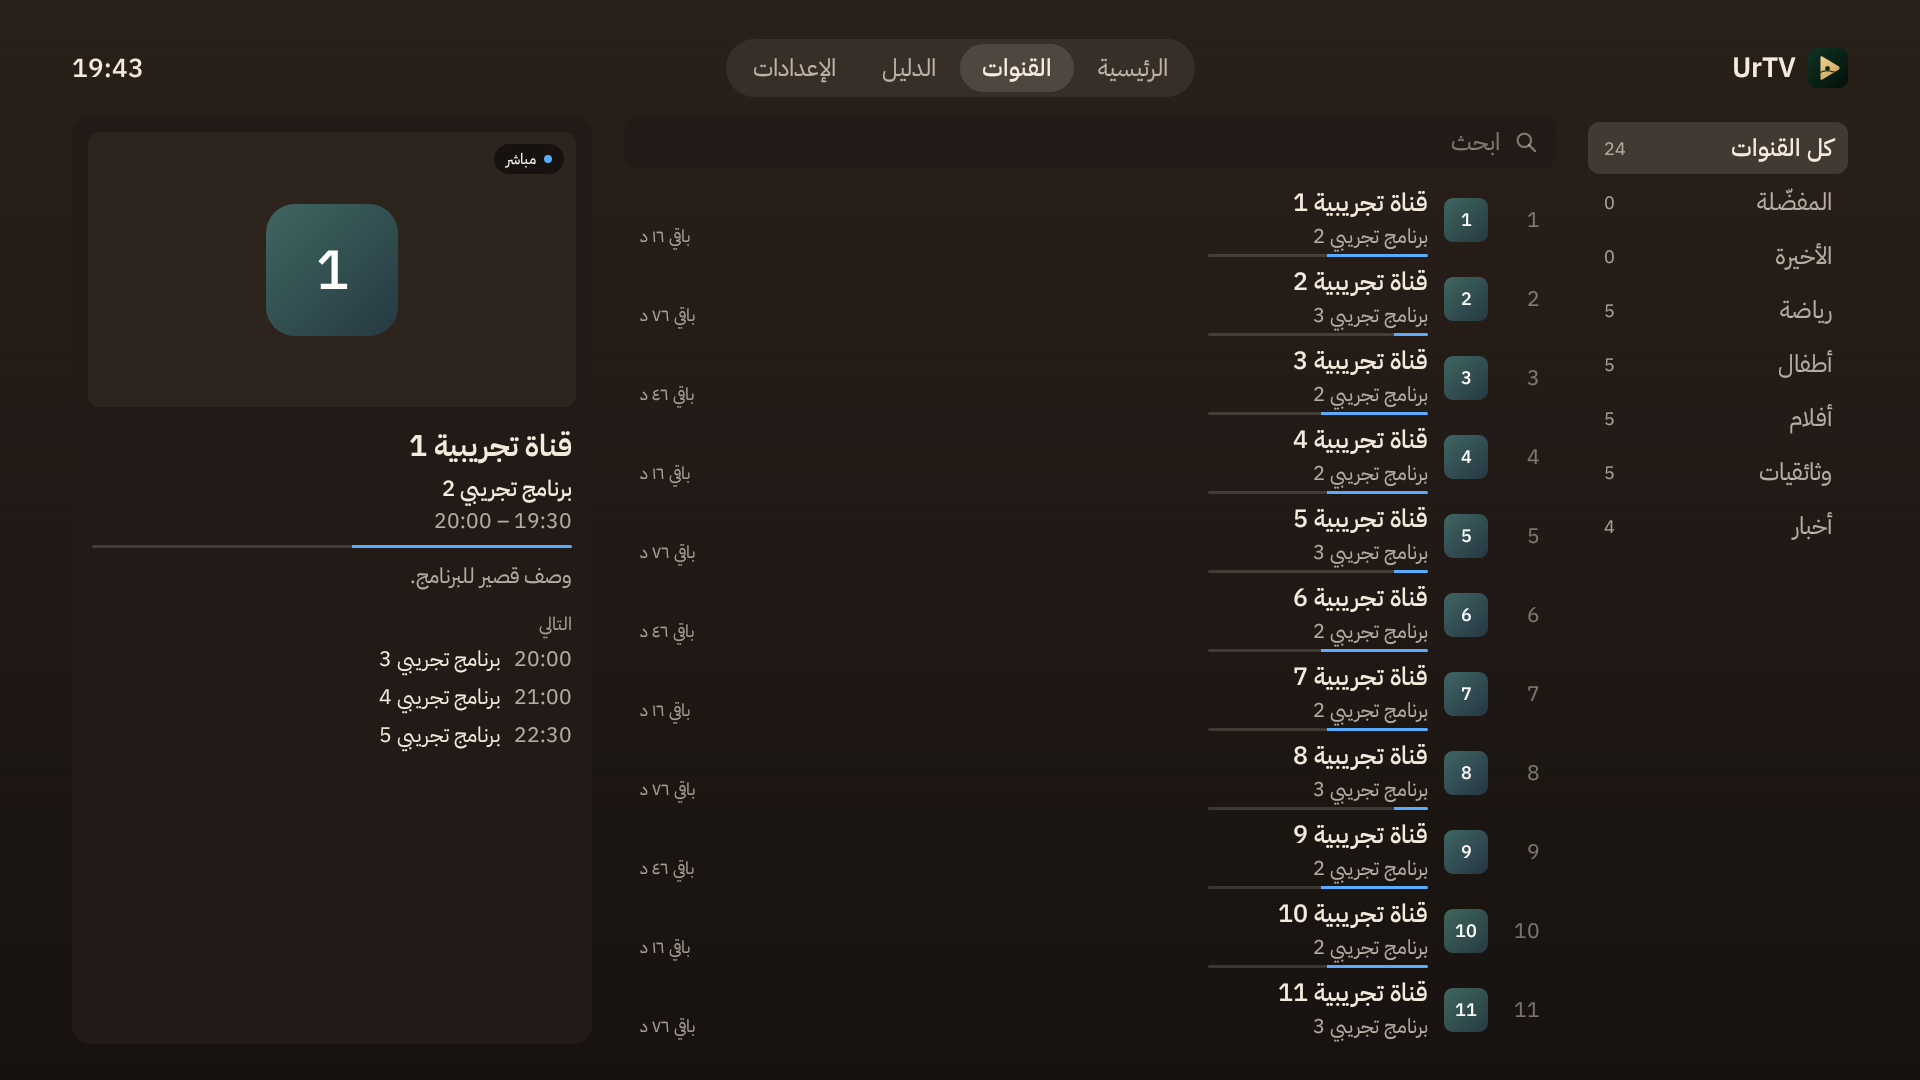
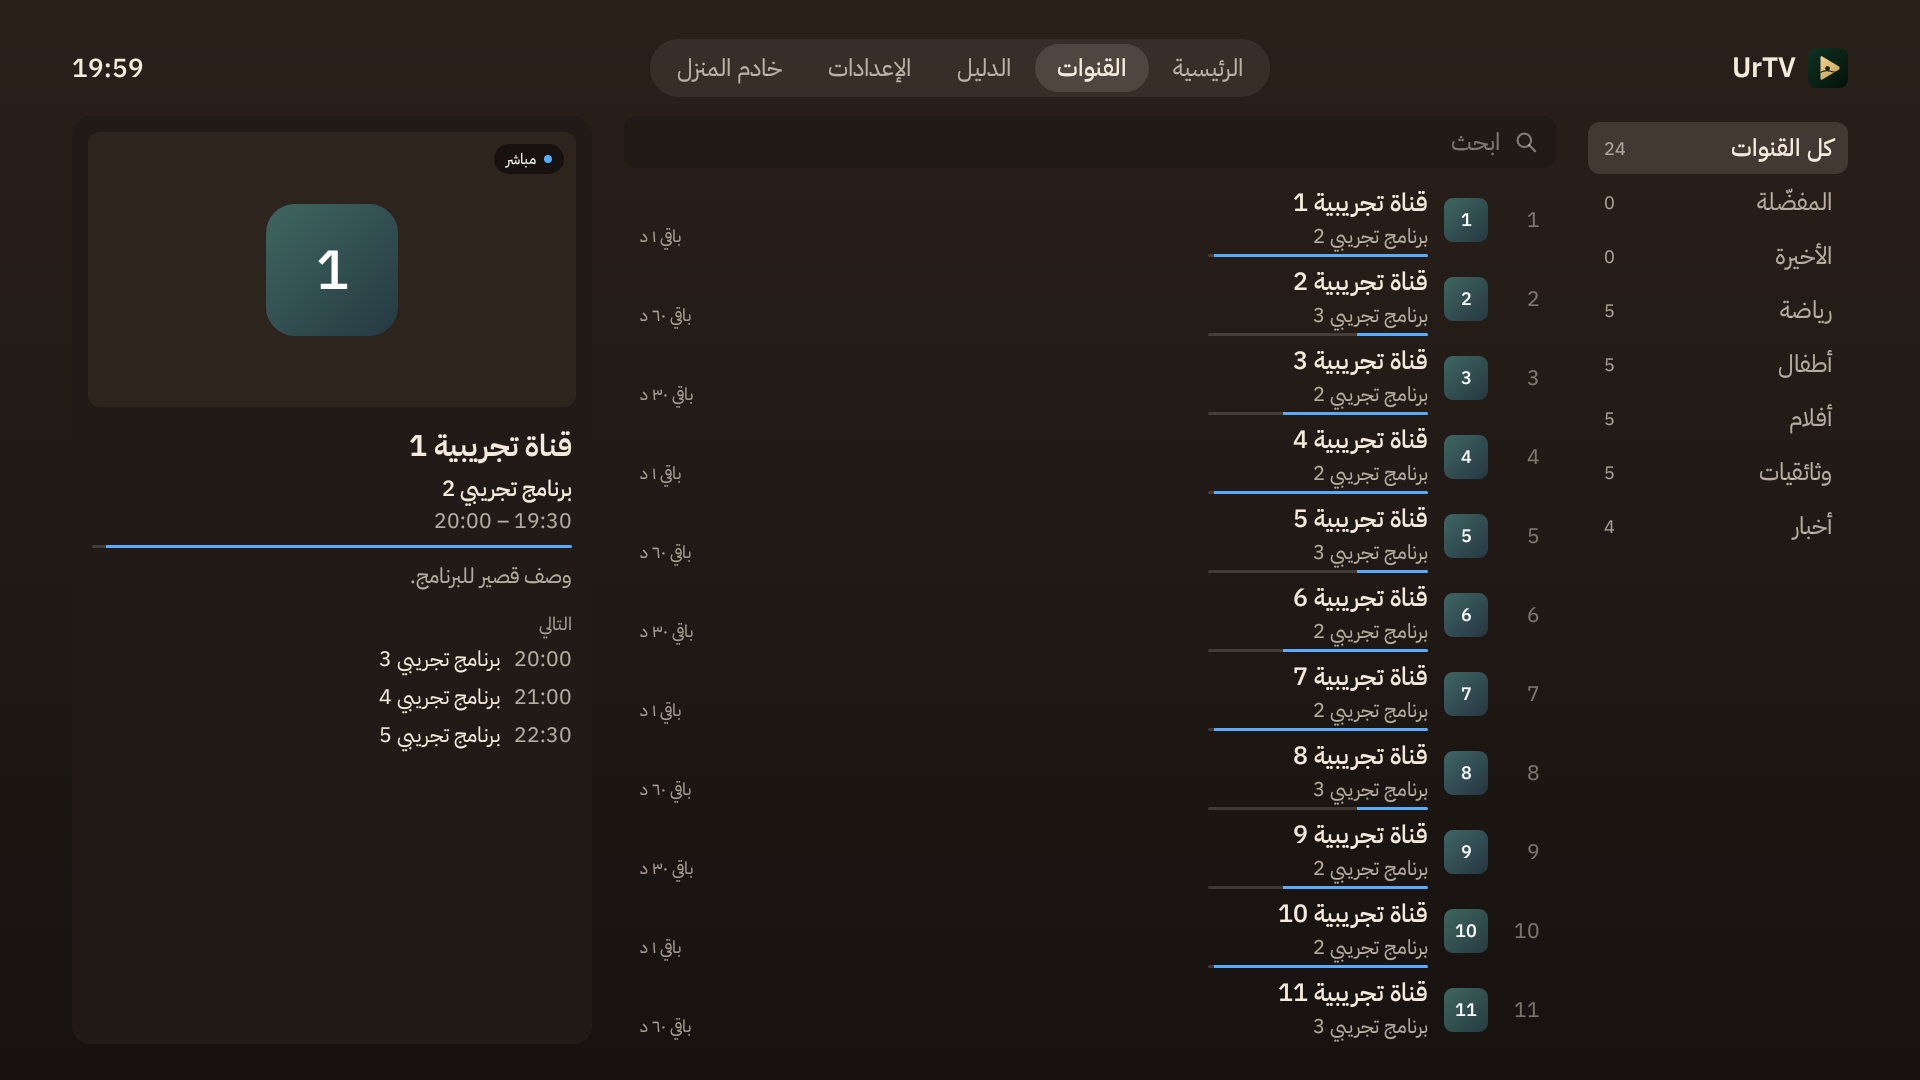
Never blank: skeleton rows and cards in theme tokens until the first answer; optional Thmanyah from the private fonts repo (CI secret FONTS_TOKEN, never committed) with Plex fallback; CI gates on the release APK only

diff --git a/app/src/main/kotlin/com/urtv/player/data/Catalog.kt b/app/src/main/kotlin/com/urtv/player/data/Catalog.kt
@@ -21,6 +21,8 @@ data class CatalogState(
     val loading: Boolean = false,
     val error: LoadError? = null,
     val epgLoading: Boolean = false,
+    /** True once the first answer is in (cache read or network try finished). Until then the UI shows skeleton rows, never an empty-state flash. */
+    val settled: Boolean = false,
 )
 
 /** Loads the active playlist (cache first, then network) and its XMLTV guide. */
@@ -35,13 +37,13 @@ class Catalog(ctx: Context, private val store: Store, private val scope: Corouti
     fun open(id: String?, force: Boolean = false) {
         job?.cancel()
         val def = store.playlists.value.firstOrNull { it.id == id }
-        if (def == null) { _state.value = CatalogState(); _epg.value = EpgIndex.EMPTY; return }
+        if (def == null) { _state.value = CatalogState(settled = true); _epg.value = EpgIndex.EMPTY; return }
         val sameList = _state.value.playlistId == id
         _state.value = CatalogState(playlistId = id, channels = if (sameList) _state.value.channels else emptyList(), loading = true)
         job = scope.launch {
             val cacheFile = chFile(def.id)
             val cached = withContext(Dispatchers.IO) { readCache(cacheFile) }
-            if (cached.isNotEmpty()) _state.value = _state.value.copy(channels = cached, loading = false)
+            if (cached.isNotEmpty()) _state.value = _state.value.copy(channels = cached, loading = false, settled = true)
             val maxAgeMs = store.refreshHours.value * 3_600_000L
             val stale = !cacheFile.exists() || cached.isEmpty() || (maxAgeMs > 0 && System.currentTimeMillis() - cacheFile.lastModified() > maxAgeMs)
             var epgUrls = emptyList<String>()
@@ -50,13 +52,13 @@ class Catalog(ctx: Context, private val store: Store, private val scope: Corouti
                 val r = withContext(Dispatchers.IO) { runCatching { fetch(def) } }
                 r.onSuccess { (list, urls) ->
                     epgUrls = urls
-                    if (list.isEmpty()) _state.value = _state.value.copy(loading = false, error = if (cached.isEmpty()) LoadError.Empty else null)
-                    else { withContext(Dispatchers.IO) { writeCache(cacheFile, list) }; _state.value = _state.value.copy(channels = list, loading = false, error = null) }
+                    if (list.isEmpty()) _state.value = _state.value.copy(loading = false, settled = true, error = if (cached.isEmpty()) LoadError.Empty else null)
+                    else { withContext(Dispatchers.IO) { writeCache(cacheFile, list) }; _state.value = _state.value.copy(channels = list, loading = false, settled = true, error = null) }
                 }.onFailure {
                     if (it is kotlinx.coroutines.CancellationException) throw it
-                    _state.value = _state.value.copy(loading = false, error = if (cached.isEmpty()) LoadError.Network else null)
+                    _state.value = _state.value.copy(loading = false, settled = true, error = if (cached.isEmpty()) LoadError.Network else null)
                 }
-            } else _state.value = _state.value.copy(loading = false)
+            } else _state.value = _state.value.copy(loading = false, settled = true)
             loadEpg(def, force || stale, epgUrls)
         }
     }

diff --git a/app/src/main/kotlin/com/urtv/player/ui/Home.kt b/app/src/main/kotlin/com/urtv/player/ui/Home.kt
@@ -208,6 +208,12 @@ private fun HomeRows(
             else -> true
         }
     }
+    if (shown.isEmpty() && (!cat.settled || cat.loading)) {
+        Column(Modifier.fillMaxSize().padding(top = 12.dp), verticalArrangement = Arrangement.spacedBy(28.dp)) {
+            repeat(3) { Column(verticalArrangement = Arrangement.spacedBy(14.dp)) { SkeletonBlock(Modifier.size(220.dp, 26.dp), 6); SkeletonCards(5) } }
+        }
+        return
+    }
     if (shown.isEmpty()) {
         Column(Modifier.fillMaxSize(), horizontalAlignment = Alignment.CenterHorizontally, verticalArrangement = Arrangement.Center) {
             Text(stringResource(R.string.home_empty), style = T.title)
@@ -368,8 +374,9 @@ private fun LiveTab(app: UrtvApp, cat: CatalogState, nowMs: Long, onPlay: (List<
                             TvButton(stringResource(R.string.unlock), { pinReq = PinRequest.Verify { app.unlocked = app.unlocked + gKey } }, primary = true, focusRequester = ufr)
                         }
                     }
+                    list.isEmpty() && (!cat.settled || (cat.loading && cat.channels.isEmpty())) -> SkeletonRows(10)
                     list.isEmpty() -> Column(Modifier.align(Alignment.Center), horizontalAlignment = Alignment.CenterHorizontally) {
-                        if (cat.loading && cat.channels.isEmpty()) { Spinner(); Spacer(Modifier.height(14.dp)); Text(stringResource(R.string.loading), style = T.body.copy(color = C.muted)) }
+                        if (false) { }
                         else if (cat.error != null && cat.channels.isEmpty()) {
                             Text(stringResource(when (cat.error) { LoadError.Network -> R.string.err_network; LoadError.Format -> R.string.err_format; else -> R.string.err_empty }), style = T.title)
                             Spacer(Modifier.height(20.dp)); TvButton(stringResource(R.string.retry), { app.catalog.refreshActive() }, primary = true)
@@ -428,7 +435,7 @@ private fun PreviewPane(app: UrtvApp, ch: Channel?, epg: com.urtv.player.data.Ep
     }
     DisposableEffect(Unit) { onDispose { if (ctrl.isPreview) ctrl.stop() } }   // never kill a full-screen channel that just started
     Column(modifier.clip(Rd(18)).background(C.surface).padding(16.dp)) {
-        Box(Modifier.fillMaxWidth().aspectRatio(16f / 9f).clip(Rd(12)).background(if (enabled && shownUrl == ch?.url) Color.Black else C.surfaceHi)) {
+        Box(Modifier.fillMaxWidth().aspectRatio(16f / 9f).clip(Rd(12)).background(if (enabled && ch != null && shownUrl == ch.url) Color.Black else C.surfaceHi)) {
             if (enabled) AndroidView({ android.view.SurfaceView(it).also(ctrl::attach) }, Modifier.fillMaxSize(), onRelease = { ctrl.detach(it) })
             if (ch != null) Box(Modifier.align(Alignment.TopStart).padding(12.dp).clip(RoundedCornerShape(50)).background(Color(0x80000000)).padding(horizontal = 12.dp, vertical = 4.dp)) {
                 Row(verticalAlignment = Alignment.CenterVertically) { Box(Modifier.size(8.dp).clip(RoundedCornerShape(50)).background(C.accent)); Spacer(Modifier.width(8.dp)); Text(stringResource(R.string.live), style = T.tiny.copy(color = Color.White, fontSize = 15.sp)) }

diff --git a/app/src/main/kotlin/com/urtv/player/ui/Widgets.kt b/app/src/main/kotlin/com/urtv/player/ui/Widgets.kt
@@ -186,3 +186,35 @@ fun FocusField(
         }
     }
 }
+
+
+/** Quiet placeholder block with a slow pulse; uses theme tokens so it fits every theme. */
+@Composable
+fun SkeletonBlock(modifier: Modifier, radius: Int = 10) {
+    val t = rememberInfiniteTransition(label = "sk")
+    val a by t.animateFloat(0.55f, 1f, infiniteRepeatable(tween(1100, easing = androidx.compose.animation.core.FastOutSlowInEasing), RepeatMode.Reverse), label = "a")
+    Box(modifier.graphicsLayer { alpha = a }.clip(Rd(radius)).background(C.glass))
+}
+
+/** Rows shaped like the real channel rows (number, logo, two text lines): shown instead of a spinner or an empty state while loading. */
+@Composable
+fun SkeletonRows(count: Int = 10, rowHeight: Int = 76) {
+    androidx.compose.foundation.layout.Column(Modifier.fillMaxWidth()) {
+        repeat(count) {
+            Row(Modifier.fillMaxWidth().height(rowHeight.dp).padding(horizontal = 16.dp), verticalAlignment = Alignment.CenterVertically) {
+                SkeletonBlock(Modifier.size(width = 30.dp, height = 18.dp), 6); androidx.compose.foundation.layout.Spacer(Modifier.size(22.dp))
+                SkeletonBlock(Modifier.size(44.dp), 10); androidx.compose.foundation.layout.Spacer(Modifier.size(16.dp))
+                androidx.compose.foundation.layout.Column(verticalArrangement = androidx.compose.foundation.layout.Arrangement.spacedBy(10.dp)) {
+                    SkeletonBlock(Modifier.size(width = (240 + (it * 37) % 160).dp, height = 18.dp), 6)
+                    SkeletonBlock(Modifier.size(width = (160 + (it * 53) % 140).dp, height = 14.dp), 6)
+                }
+            }
+        }
+    }
+}
+
+/** Card-shaped placeholders for Home rows and poster grids. */
+@Composable
+fun SkeletonCards(count: Int = 5, width: Int = 300, height: Int = 88) {
+    Row(Modifier.padding(horizontal = 4.dp), horizontalArrangement = androidx.compose.foundation.layout.Arrangement.spacedBy(16.dp)) { repeat(count) { SkeletonBlock(Modifier.size(width.dp, height.dp), 14) } }
+}

diff --git a/app/src/test/kotlin/com/urtv/player/ShotsTest.kt b/app/src/test/kotlin/com/urtv/player/ShotsTest.kt
@@ -5,6 +5,10 @@ import android.graphics.Bitmap
 import androidx.activity.ComponentActivity
 import androidx.activity.compose.setContent
 import androidx.compose.runtime.Composable
+import androidx.compose.foundation.background
+import androidx.compose.foundation.layout.fillMaxSize
+import androidx.compose.foundation.layout.padding
+import androidx.compose.ui.unit.dp
 import androidx.compose.ui.test.captureToImage
 import androidx.compose.ui.test.junit4.createEmptyComposeRule
 import androidx.compose.ui.test.onRoot
@@ -122,6 +126,9 @@ class ShotsTest {
     @Test fun addPhone() { shot("08-add-from-phone-ar") { AddPlaylistScreen(app, Triple("http://192.0.2.10:49152/?c=482915", "482915", "192.0.2.10:49152")) {} } }
     @Test fun backup() { shot("12-backup-passphrase-ar") { com.urtv.player.ui.BackupScreen(app, false) {} } }
     @Test fun restore() { shot("13-restore-from-phone-ar") { com.urtv.player.ui.BackupScreen(app, true, Triple("http://192.0.2.10:49153/?c=730164", "730164", "192.0.2.10:49153")) {} } }
+    @Test fun loadingSkeleton() {
+        shot("14-loading-skeleton-ar") { androidx.compose.foundation.layout.Column(androidx.compose.ui.Modifier.fillMaxSize().background(com.urtv.player.ui.C.bgBrush).padding(horizontal = 72.dp, vertical = 130.dp)) { com.urtv.player.ui.SkeletonRows(9) } }
+    }
     @Test fun pin() { shot("11-pin-ar") { PinPad("أدخل الرمز السري", null, 0, {}) {} } }
     @Test fun player() { seed(); val ch = app.catalog.state.value.channels[2]
         shot("04-player-ar") { PlayerScreen(app, app.catalog.state.value.channels, ch) {} } }

diff --git a/app/src/main/kotlin/com/urtv/player/ui/Fonts.kt b/app/src/main/kotlin/com/urtv/player/ui/Fonts.kt
@@ -1,0 +1,25 @@
+package com.urtv.player.ui
+
+import android.content.Context
+import androidx.compose.ui.text.font.Font
+import androidx.compose.ui.text.font.FontFamily
+import androidx.compose.ui.text.font.FontWeight
+
+/**
+ * UI font. IBM Plex Sans Arabic (open licence, in the repository) is the fallback. When the private Thmanyah files were
+ * put into assets/fonts at build time (CI "Private fonts" step, never committed) they become the primary family.
+ */
+object Fonts {
+    @Volatile var current: FontFamily = Plex; private set
+    @Volatile var usingThmanyah = false; private set
+
+    /** Looks for fonts/Thmanyah-{Regular,Medium,Bold}.otf in the assets. Cheap; call once at start. */
+    fun init(ctx: Context) {
+        val names = runCatching { ctx.assets.list("fonts")?.toSet() }.getOrNull().orEmpty()
+        fun f(n: String, w: FontWeight): Font? = if ("$n.otf" in names) Font("fonts/$n.otf", ctx.assets, w) else null
+        val regular = f("Thmanyah-Regular", FontWeight.Normal) ?: return
+        val medium = f("Thmanyah-Medium", FontWeight.Medium) ?: regular.let { Font("fonts/Thmanyah-Regular.otf", ctx.assets, FontWeight.Medium) }
+        val bold = f("Thmanyah-Bold", FontWeight.SemiBold) ?: f("Thmanyah-Medium", FontWeight.SemiBold) ?: Font("fonts/Thmanyah-Regular.otf", ctx.assets, FontWeight.SemiBold)
+        current = FontFamily(regular, medium, bold); usingThmanyah = true
+    }
+}

diff --git a/app/src/main/kotlin/com/urtv/player/ui/Vod.kt b/app/src/main/kotlin/com/urtv/player/ui/Vod.kt
@@ -88,7 +88,7 @@ fun PosterBrowse(app: UrtvApp, movies: Boolean, onOpen: (String) -> Unit) {
             Spacer(Modifier.height(12.dp))
             Box(Modifier.fillMaxSize()) {
                 when {
-                    list.isEmpty() && vod.loading -> Column(Modifier.align(Alignment.Center), horizontalAlignment = Alignment.CenterHorizontally) { Spinner(); Spacer(Modifier.height(12.dp)); Text(stringResource(R.string.loading), style = T.body.copy(color = C.muted)) }
+                    list.isEmpty() && vod.loading -> androidx.compose.foundation.lazy.grid.LazyVerticalGrid(GridCells.Adaptive(180.dp), Modifier.fillMaxSize(), contentPadding = PaddingValues(12.dp), horizontalArrangement = Arrangement.spacedBy(18.dp), verticalArrangement = Arrangement.spacedBy(18.dp), userScrollEnabled = false) { items(12) { SkeletonBlock(Modifier.fillMaxWidth().aspectRatio(0.68f), 14) } }
                     list.isEmpty() && vod.failed -> Column(Modifier.align(Alignment.Center), horizontalAlignment = Alignment.CenterHorizontally) {
                         Text(stringResource(R.string.err_network), style = T.title); Spacer(Modifier.height(16.dp))
                         TvButton(stringResource(R.string.retry), { app.vod.open(app.store.playlists.value.firstOrNull { it.id == vod.playlistId }, true) }, primary = true) }

diff --git a/app/src/main/kotlin/com/urtv/player/ui/Guide.kt b/app/src/main/kotlin/com/urtv/player/ui/Guide.kt
@@ -66,7 +66,7 @@ fun GuideScreen(app: UrtvApp, cat: CatalogState, onPlay: (List<Channel>, Channel
 
     if (rows.isEmpty()) {
         Column(Modifier.fillMaxSize(), horizontalAlignment = Alignment.CenterHorizontally, verticalArrangement = Arrangement.Center) {
-            if (cat.epgLoading) { Spinner(); Spacer(Modifier.height(16.dp)); Text(stringResource(R.string.loading), style = T.body.copy(color = C.muted)) }
+            if (cat.epgLoading || !cat.settled) SkeletonRows(8, 84)
             else { Text(stringResource(R.string.no_guide), style = T.title); Spacer(Modifier.height(8.dp)); Text(stringResource(R.string.no_guide_hint), style = T.body.copy(color = C.muted)) }
         }
         return

diff --git a/app/src/main/kotlin/com/urtv/player/ui/AppRoot.kt b/app/src/main/kotlin/com/urtv/player/ui/AppRoot.kt
@@ -27,7 +27,7 @@ private enum class Screen { Home, Player, Add, Groups, HomeRows, Backup, Movie, 
 fun AppRoot(app: UrtvApp, onLanguageChanged: () -> Unit) {
     val ready by app.store.ready.collectAsState()
     androidx.compose.foundation.layout.Box(androidx.compose.ui.Modifier.fillMaxSize().background(C.bg)) {
-        if (ready) AppContent(app, onLanguageChanged)
+        if (ready) AppContent(app, onLanguageChanged) else androidx.compose.foundation.layout.Column(androidx.compose.ui.Modifier.fillMaxSize().padding(horizontal = 72.dp, vertical = 130.dp)) { SkeletonRows(9) }
         if (!app.splashDone) LaunchSplash { app.splashDone = true }
     }
 }

diff --git a/app/src/main/kotlin/com/urtv/player/MainActivity.kt b/app/src/main/kotlin/com/urtv/player/MainActivity.kt
@@ -27,6 +27,7 @@ class MainActivity : ComponentActivity() {
         WindowCompat.setDecorFitsSystemWindows(window, false)
         window.addFlags(WindowManager.LayoutParams.FLAG_KEEP_SCREEN_ON)
         val app = application as UrtvApp
+        com.urtv.player.ui.Fonts.init(this)
         setContent {
             val look by app.store.appearance.collectAsState(); val scale by app.store.textScale.collectAsState()
             UrtvTheme(look, scale) { AppRoot(app, onLanguageChanged = { recreate() }) }

diff --git a/app/src/main/kotlin/com/urtv/player/ui/ThemeSpec.kt b/app/src/main/kotlin/com/urtv/player/ui/ThemeSpec.kt
@@ -37,7 +37,7 @@ data class ThemeSpec(
     val cornerScale: Float,
     val background: BgStyle,
     val outlineAtRest: Boolean,
-    val font: FontFamily = Plex,
+    val font: FontFamily = Fonts.current,
 ) {
     val solidFocus get() = focus == FocusStyle.Solid
     val focusFill get() = if (solidFocus) focusSolid else focusSoft
